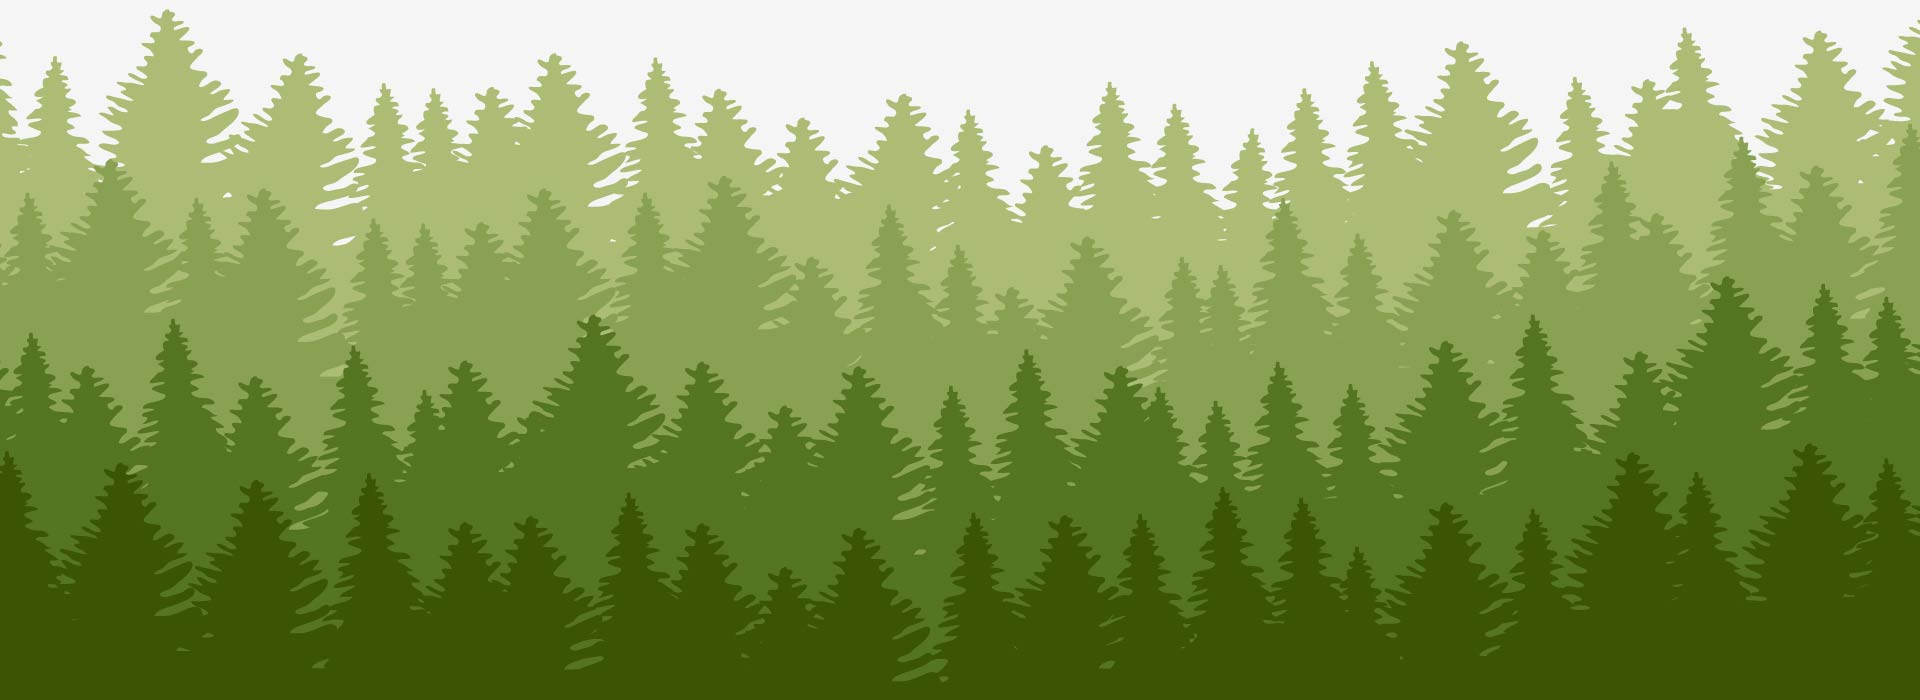
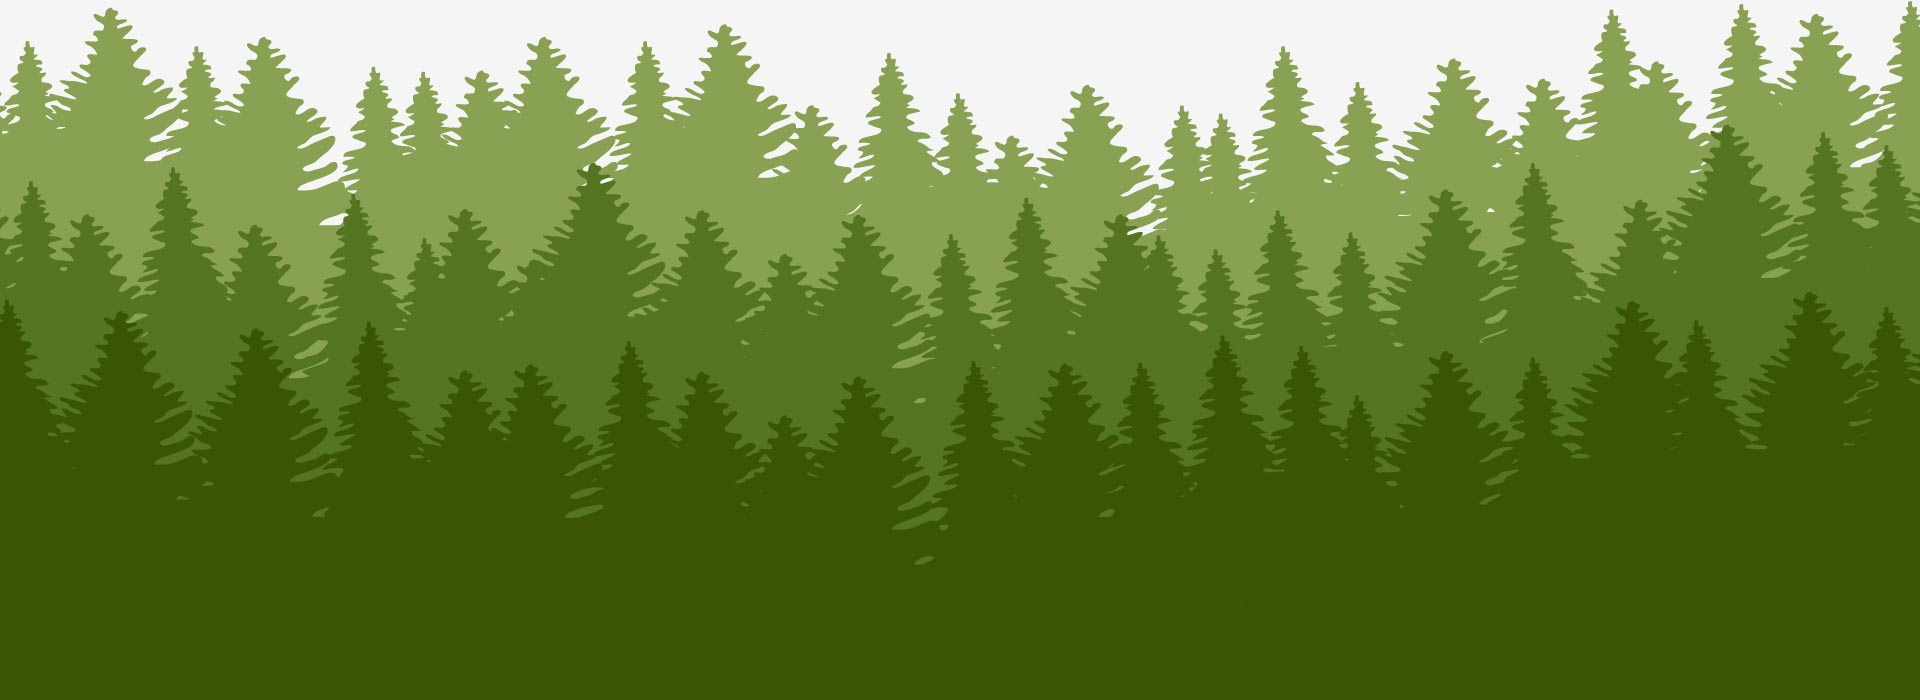
footer css

diff --git a/wp-content/themes/realhomes-child/style.css b/wp-content/themes/realhomes-child/style.css
@@ -9,7 +9,7 @@ Version: 1.3
 */
 
 div.ppt{display:none!important}.dfp-ad{margin:0 auto;text-align:center}.ad-wrapper{background-color:#252a2b;padding:10px 0}.footer-ad-wrapper{padding:20px 0;width:100%}.mid-ad-wrapper{padding:30px;background-color:#fff}.bh-section-header{margin:10px 31px;text-align:left}#logo{padding:15px 10px 0}#header-top{float:right}#logo img{max-height:80px;width:auto}.main{border:1px solid #dedede}.page-spacer{height:35px}.option-checkboxes{display:block;clear:both}.advance-search .more-options-wrapper{margin-top:20px}.bhfooter ul{padding:0;margin:0;list-style-type:none}.bhfooter ul li{line-height:30px}.bhfooter .logocol{margin-top:30px}.bhfooter .logocol h3{color:#fff;font-weight:400;line-height:30px;font-size:20px;margin:30px 0 0}.bhfooter .logocol img{margin-bottom:20px;max-width:240px}.bhfooter .logocol .funnelbox .bh-form-control{background-color:#FFF;color:#151100;padding:10px 2.5%;border:none;width:95%}.bhfooter .logocol .funnelbox .bh-form-button{background-color:#f60;color:#fff;font-weight:700;text-transform:capitalize;font-size:1.4em;padding:10px;border:0;letter-spacing:.09em;line-height:24px}.bhfooter .logocol .funnelbox .bh-form-button:hover{background-color:#02888f}.bhfooter .logocol .funnelbox p{color:#fff;font-size:1.2em;line-height:1.4em;margin:0 0 20px}.chiclet-facebook,.chiclet-pinterest,.chiclet-twitter{color:#fff;font-size:26px;text-align:center;width:35px;height:35px;line-height:1.35em;text-shadow:1px 1px 0 rgba(0,0,0,.5)}.bhfooter .socialicons{margin:20px 0}span[class*=" chiclet-"],span[class^=chiclet-]{margin:0 10px 0 0}.chiclet-facebook{border-radius:3px;background-color:#2591FF}.chiclet-facebook:hover{background-color:#0077f1}.chiclet-twitter{border-radius:3px;background-color:#25CEFF}.chiclet-twitter:hover{background-color:#00bbf1}.chiclet-pinterest{border-radius:3px;background-color:#CD2129}.chiclet-pinterest:hover{background-color:#a11a20}.chiclet-youtube{border-radius:3px;color:#fff;background-color:#A80202;font-size:26px;text-align:center;width:35px;height:35px;line-height:1.35em;text-shadow:1px 1px 0 rgba(0,0,0,.5)}.chiclet-instagram,.chiclet-rss{border-radius:3px;color:#fff;font-size:26px;text-align:center;width:35px;height:35px;line-height:1.35em;text-shadow:1px 1px 0 rgba(0,0,0,.5)}.chiclet-youtube:hover{background-color:#760101}.chiclet-instagram{background-color:#895A4D}.chiclet-instagram:hover{background-color:#68453b}.chiclet-rss{background-color:#F90}.chiclet-rss:hover{background-color:#cc7a00}.chiclet-linkedin{border-radius:3px;color:#fff;background-color:#007BB6;font-size:26px;text-align:center;width:35px;height:35px;line-height:1.35em;text-shadow:1px 1px 0 rgba(0,0,0,.5);margin:0 .1em 0 0}.chiclet-linkedin:hover{background-color:#005983}.chiclet-yelp{border-radius:3px;color:#fff;background-color:#D32323;font-size:26px;text-align:center;width:35px;height:35px;line-height:1.35em;text-shadow:1px 1px 0 rgba(0,0,0,.5);margin:0 .1em 0 0}.chiclet-yelp:hover{background-color:#ad1f1f;}.chiclet-googleplus{border-radius:3px;color:#fff;background-color:#DC4B3E;font-size:26px;text-align:center;width:35px;height:35px;line-height:1.35em;text-shadow:1px 1px 0 rgba(0,0,0,.5);margin:0 .1em 0 0}.chiclet-googleplus:hover{background-color:#ba3b32;}#listing-map{background-image: url(images/loader.gif);background-repeat:no-repeat;background-position:center center}.list-container #listing-map,.search-map-container #listing-map{height:600px;width:100%}
-#footer-wrapper { background: url(images/footer-forest.jpg) no-repeat center top #3B5504; padding-top: 300px; color: #fff; font-weight: 300; letter-spacing: .05em; }
+#footer-wrapper { background: url(images/footer-forest.jpg) no-repeat center top #3B5504; padding-top: 200px; color: #fff; font-weight: 300; letter-spacing: .05em; }
 .bhfooter h4{color:#fff;border-bottom:1px solid #fff;padding:20px 0}
 footer a, #footer-bottom p { color: #fff !important; }
 footer a:hover { text-decoration: underline; }
